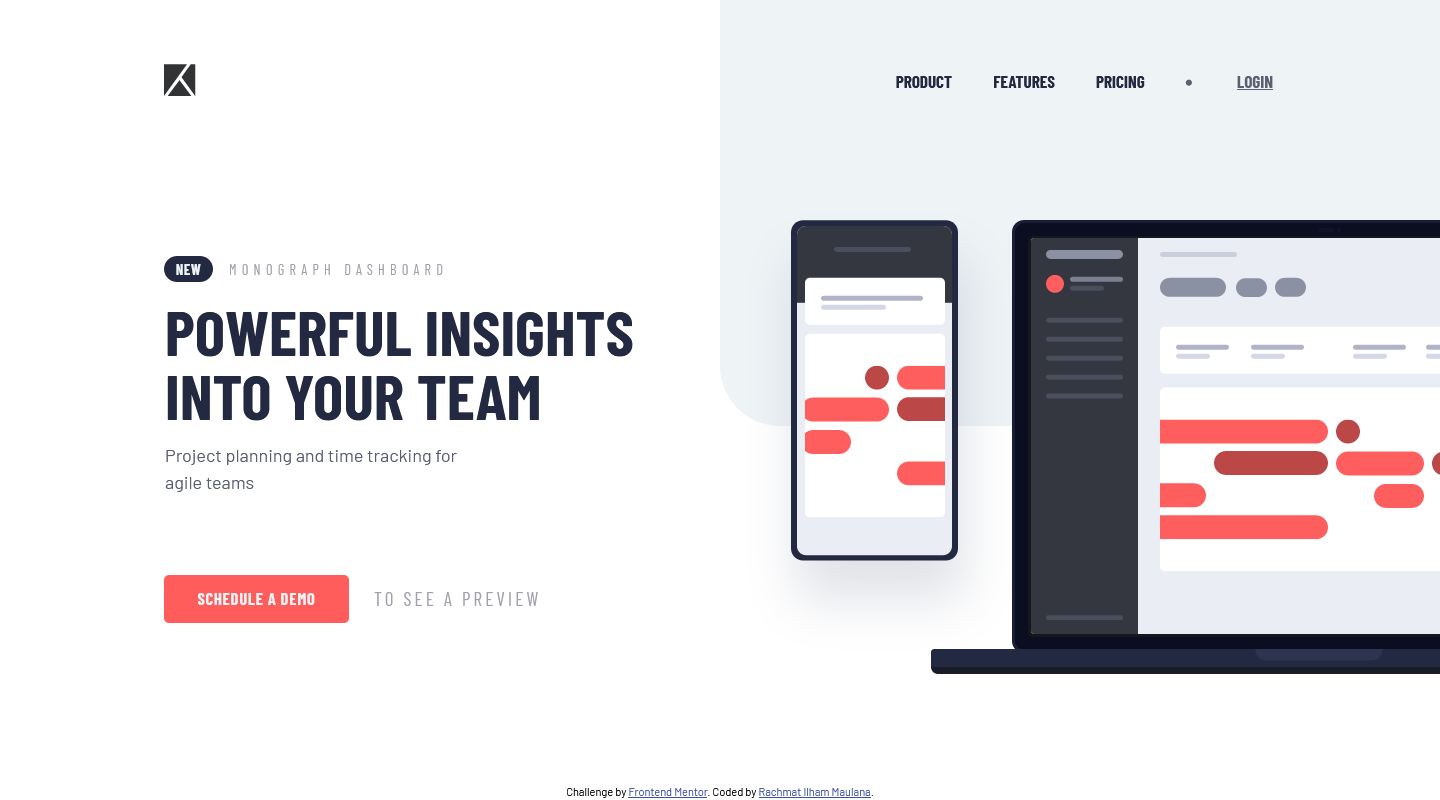
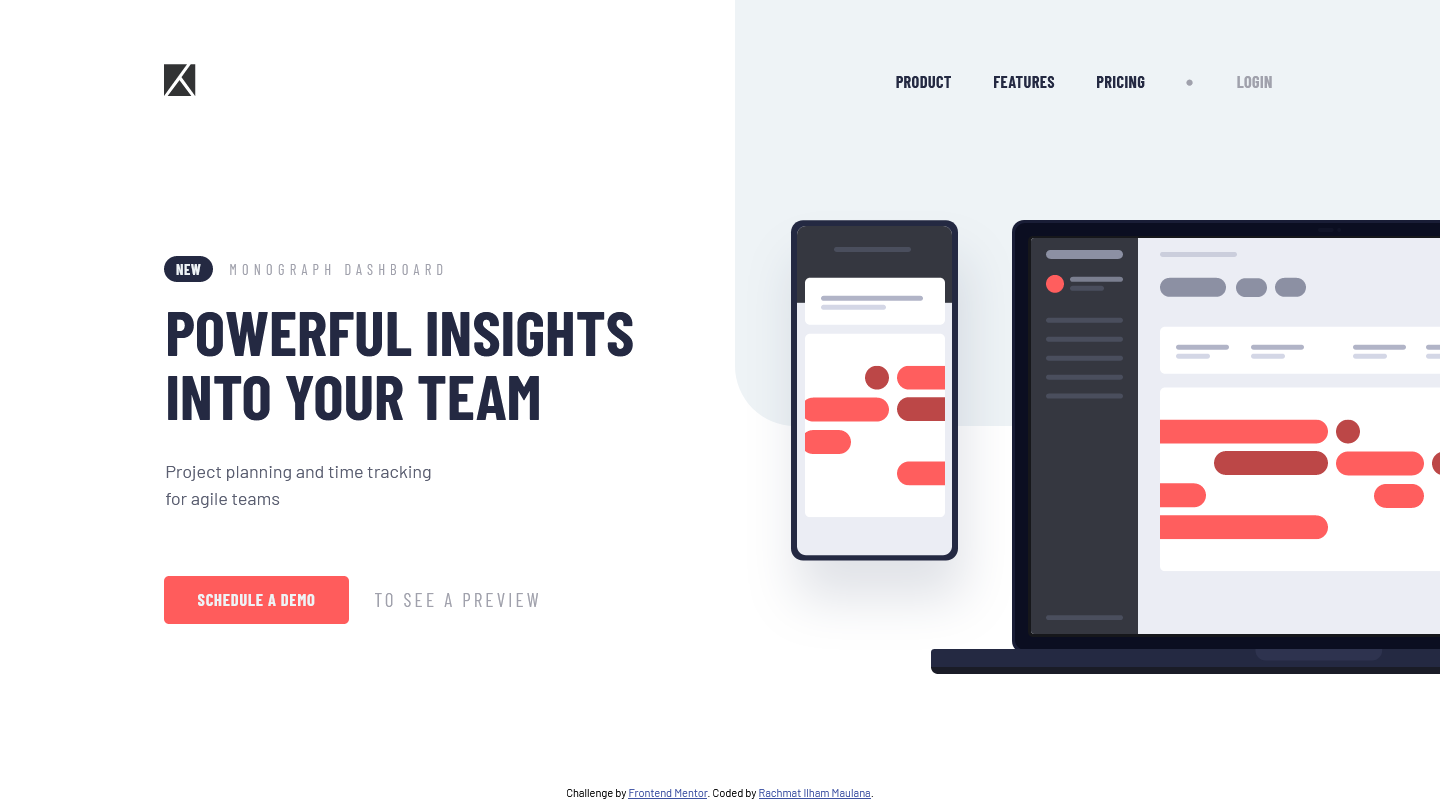
problem fixing

diff --git a/index.html b/index.html
@@ -23,55 +23,57 @@
     />
   </head>
   <body>
-    <div class="background"></div>
-    <header>
-      <img src="./images/logo.svg" alt="Logo Icon" class="logo" />
-      <div class="nav-icon"></div>
-      <div class="nav-link">
-        <ul>
-          <li class="product">
-            <a href="#"> Product </a>
-          </li>
-          <li class="features">
-            <a href="#"> Features </a>
-          </li>
-          <li class="pricing">
-            <a href="#"> Pricing </a>
-          </li>
-          <li class="login">
-            <a href="#"> Login </a>
-          </li>
-        </ul>
-      </div>
-    </header>
+    <main>
+      <div class="background"></div>
+      <header>
+        <img src="./images/logo.svg" alt="Logo Icon" class="logo" />
+        <div class="nav-icon"></div>
+        <div class="nav-link">
+          <ul>
+            <li class="product">
+              <a href="#"> Product </a>
+            </li>
+            <li class="features">
+              <a href="#"> Features </a>
+            </li>
+            <li class="pricing">
+              <a href="#"> Pricing </a>
+            </li>
+            <li class="login">
+              <a href="#"> Login </a>
+            </li>
+          </ul>
+        </div>
+      </header>
 
-    <article>
-      <div class="hero-image">
-        <img src="./images/illustration-devices.svg" alt="Hero Image" />
-      </div>
-      <div class="text-content">
-        <div class="flex-container">
-          <div class="new">
-            <p>New</p>
+      <article>
+        <div class="hero-image">
+          <img src="./images/illustration-devices.svg" alt="Hero Image" />
+        </div>
+        <div class="text-content">
+          <div class="flex-container">
+            <div class="new">
+              <p>New</p>
+            </div>
+            <div class="dashboard">
+              <p>Monograph Dashboard</p>
+            </div>
           </div>
-          <div class="dashboard">
-            <p>Monograph Dashboard</p>
+
+          <div class="body">
+            <h1>Powerful insights into your team</h1>
+            <p>Project planning and time tracking for agile teams</p>
+          </div>
+
+          <div class="call-to-action">
+            <button>Schedule a demo</button>
+            <div class="preview">
+              <a href="#"> to see a preview </a>
+            </div>
           </div>
         </div>
-
-        <div class="body">
-          <h1>Powerful insights into your team</h1>
-          <p>Project planning and time tracking for agile teams</p>
-        </div>
-
-        <div class="call-to-action">
-          <button>Schedule a demo</button>
-          <div class="preview">
-            <a href="#"> to see a preview </a>
-          </div>
-        </div>
-      </div>
-    </article>
+      </article>
+    </main>
 
     <footer>
       <p class="attribution">

diff --git a/style.css b/style.css
@@ -102,10 +102,10 @@ header ul li.pricing {
 header ul li.login {
   padding-top: 23px;
   border-top: 1px solid rgba(0, 0, 0, 0.1);
-  color: var(--dark-grayish-blue);
+  color: var(--grayish-blue);
 }
 header ul li.login a {
-  color: var(--dark-grayish-blue);
+  color: var(--grayish-blue);
 }
 
 article .hero-image img {
@@ -182,6 +182,7 @@ article .call-to-action button {
 }
 article .call-to-action button:hover {
   cursor: pointer;
+  background-color: hsl(0, 100%, 76%);
 }
 article .call-to-action .preview {
   margin-left: 20px;
@@ -206,8 +207,11 @@ article .call-to-action .preview a {
 
 /* RESPONSIVE DESIGN */
 @media (min-width: 992px) {
+  .background {
+    width: calc(50% - 15px);
+  }
   header {
-    padding: 64px 164px 0;
+    padding: 64px 11.4% 0;
   }
   header img.logo {
     width: 32px;
@@ -224,12 +228,12 @@ article .call-to-action .preview a {
     top: 0;
     right: 0;
     display: block;
-    max-width: 34.2%;
+    min-width: 34.2%;
     height: auto;
   }
   header .nav-link a {
-    font-size: 0.95em;
-    letter-spacing: normal;
+    font-size: 0.9em;
+    letter-spacing: 0.025em;
   }
   header ul {
     padding: 0;
@@ -248,7 +252,7 @@ article .call-to-action .preview a {
   }
   header ul li.login {
     padding-top: 7px;
-    padding-left: 36px;
+    padding-left: 9.2%;
     list-style-type: disc;
     border: 0;
     text-align: right;
@@ -256,13 +260,12 @@ article .call-to-action .preview a {
   }
 
   article {
-    padding-left: 164px;
+    padding-left: 11.4%;
     display: flex;
     justify-content: space-between;
   }
   article .hero-image {
     order: 2;
-    width: 45.2%;
     margin-top: 115px;
   }
   article .hero-image img {
@@ -271,12 +274,12 @@ article .call-to-action .preview a {
     height: fit-content;
     max-height: 463px;
     position: absolute;
-    right: -267px;
+    left: calc(52% - 2px);
   }
   article .text-content {
     padding: 0;
     order: 1;
-    width: 37.2%;
+    width: 38.2%;
     max-width: 50%;
   }
 
@@ -290,12 +293,13 @@ article .call-to-action .preview a {
     font-size: 3.55em;
   }
   article .body p {
+    margin-top: 31px;
     margin-left: 1px;
-    padding-right: 180px;
+    padding-right: 40%;
   }
 
   article .call-to-action {
-    margin-top: 79px;
+    margin-top: 64px;
     padding-bottom: 162px;
   }
   article .call-to-action button {
